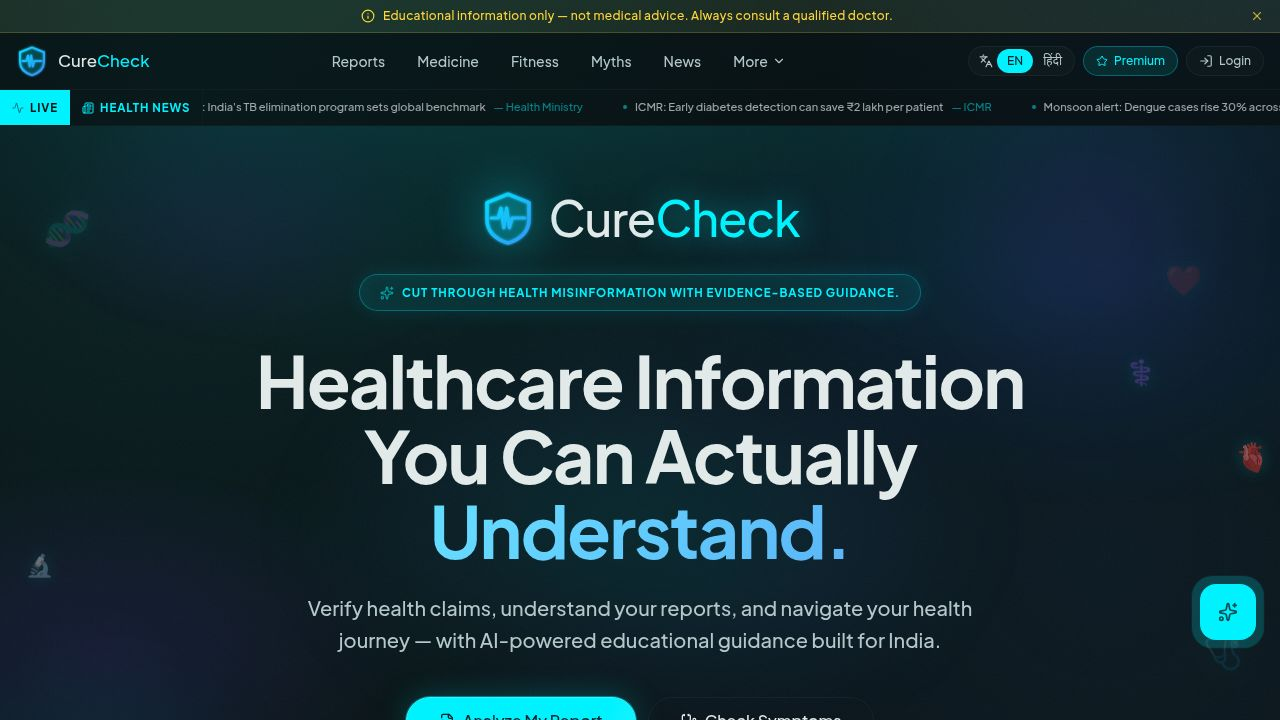
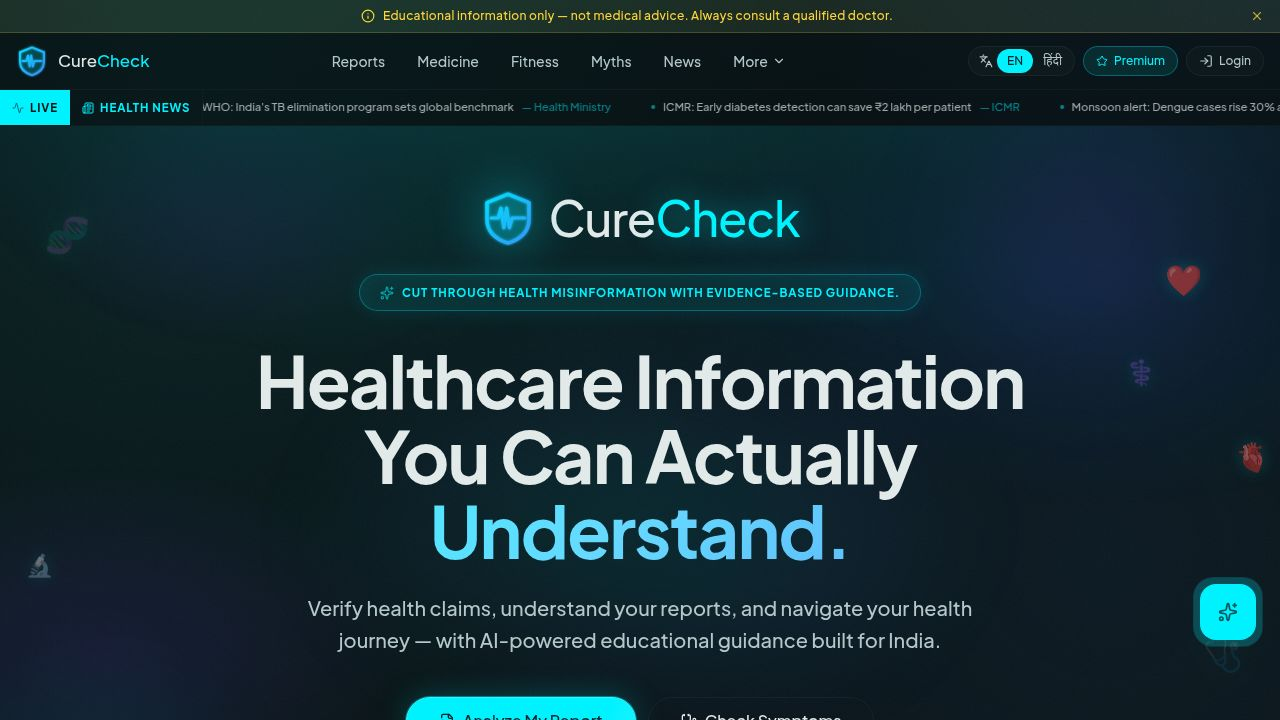
Remove Tawk.to chatbot integration from the website
Remove hardcoded Tawk.to script from index.html and clean up the __TAWK_ID__ define in vite.config.ts.

Replit-Commit-Author: Agent
Replit-Commit-Session-Id: db61d4d6-33a9-4002-b391-610f0a9f15d0
Replit-Commit-Checkpoint-Type: full_checkpoint
Replit-Commit-Event-Id: bf1a7fe5-5b9d-4186-8bb2-d977306615b7
Replit-Commit-Screenshot-Url: https://storage.googleapis.com/screenshot-production-us-central1/09250c98-2310-4009-83e2-84cd13b622d6/db61d4d6-33a9-4002-b391-610f0a9f15d0/2qYmLGn
Replit-Helium-Checkpoint-Created: true

diff --git a/artifacts/curecheck/index.html b/artifacts/curecheck/index.html
@@ -39,19 +39,6 @@
     <script type="module" src="/src/main.tsx"></script>
     <!-- Tally.so embed loader (loads all data-tally-src iframes) -->
     <script>var d=document,w="https://tally.so/widgets/embed.js",v=function(){"undefined"!=typeof Tally?Tally.loadEmbeds():d.querySelectorAll("iframe[data-tally-src]:not([src])").forEach((function(e){e.src=e.dataset.tallySrc}))};if("undefined"!=typeof Tally)v();else if(d.querySelector('script[src="'+w+'"]')==null){var s=d.createElement("script");s.src=w,s.onload=v,s.onerror=v,d.body.appendChild(s);}</script>
-    <!--Start of Tawk.to Script-->
-    <script type="text/javascript">
-    var Tawk_API=Tawk_API||{}, Tawk_LoadStart=new Date();
-    (function(){
-    var s1=document.createElement("script"),s0=document.getElementsByTagName("script")[0];
-    s1.async=true;
-    s1.src='https://embed.tawk.to/6a31d3ce6f88b21d46f63f04/1jr9a6otl';
-    s1.charset='UTF-8';
-    s1.setAttribute('crossorigin','*');
-    s0.parentNode.insertBefore(s1,s0);
-    })();
-    </script>
-    <!--End of Tawk.to Script-->
     <!-- OneSignal Web Push Notifications -->
     <script src="https://cdn.onesignal.com/sdks/web/v16/OneSignalSDK.page.js" defer></script>
     <script>

diff --git a/artifacts/curecheck/vite.config.ts b/artifacts/curecheck/vite.config.ts
@@ -50,7 +50,6 @@ export default defineConfig(async ({ isSsrBuild }) => {
     },
     define: {
       __GA_ID__: JSON.stringify(process.env.GA_MEASUREMENT_ID ?? ""),
-      __TAWK_ID__: JSON.stringify(process.env.TAWK_PROPERTY_ID ?? ""),
       __ONESIGNAL_ID__: JSON.stringify(process.env.ONESIGNAL_APP_ID ?? ""),
       __SUPABASE_URL__: JSON.stringify(process.env.SUPABASE_URL ?? ""),
       __SUPABASE_ANON_KEY__: JSON.stringify(